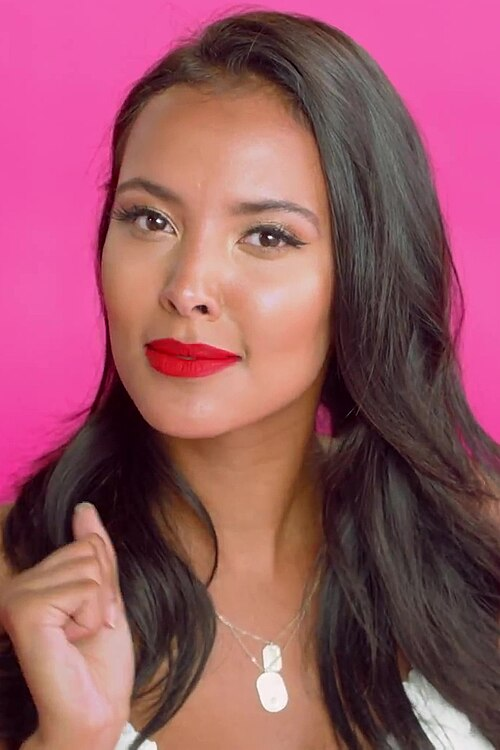
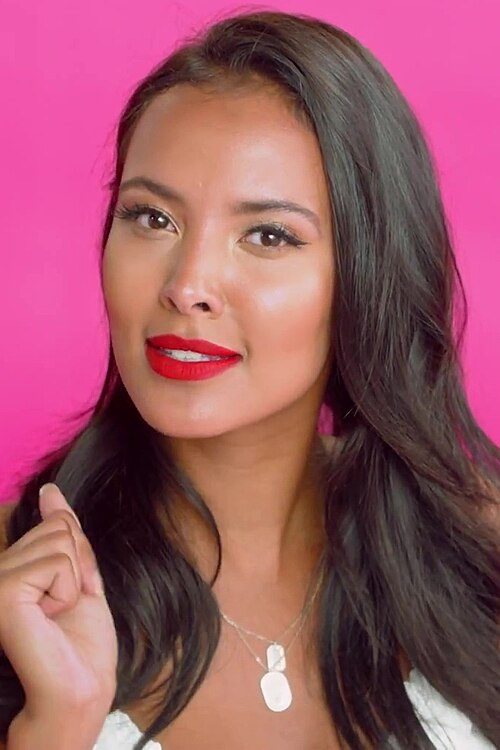
CandyRific: swap Maya Jama to a tighter, stronger frame
Direct eye contact, tighter head-and-shoulders crop. Also saved a tight
face crop of the supplied red-carpet frame at talent/maya-redcarpet.jpg,
though the sponsor step-and-repeat behind her stays legible at any crop
that keeps her full head in shot.

Claude-Session: https://claude.ai/code/session_01YUwwoQN2wMiEF8PvAm43pL

diff --git a/candyrific/index.html b/candyrific/index.html
@@ -359,7 +359,7 @@ const TALENT = [
     fit:'Premium dark chocolate, or a collagen and beauty gummy positioned at the luxury end. Naomi moves a product from creator collab to brand, which changes what retail is willing to do with it.',
     lines:['chocolate','beauty','brand'], lineLabels:['Premium chocolate','Beauty supplement','Brand level'] },
 
-  { pod:'A', id:'maya', name:'Maya Jama', mono:'MJ', tier:'headline', img:'mayajama.jpg', pos:'center 18%', reach:'3.1M', reachNum:3100000, reachOn:'Instagram',
+  { pod:'A', id:'maya', name:'Maya Jama', mono:'MJ', tier:'headline', img:'mayajama.jpg', pos:'center 12%', reach:'3.1M', reachNum:3100000, reachOn:'Instagram',
     handle:'UK entertainment',
     desc:'One of the most visible personalities in UK entertainment. Beauty and lifestyle are her core commercial categories, and her audience is heavily female and highly engaged.',
     fit:'Headline partner on a beauty supplement gummy: skin, hair, nails.',
